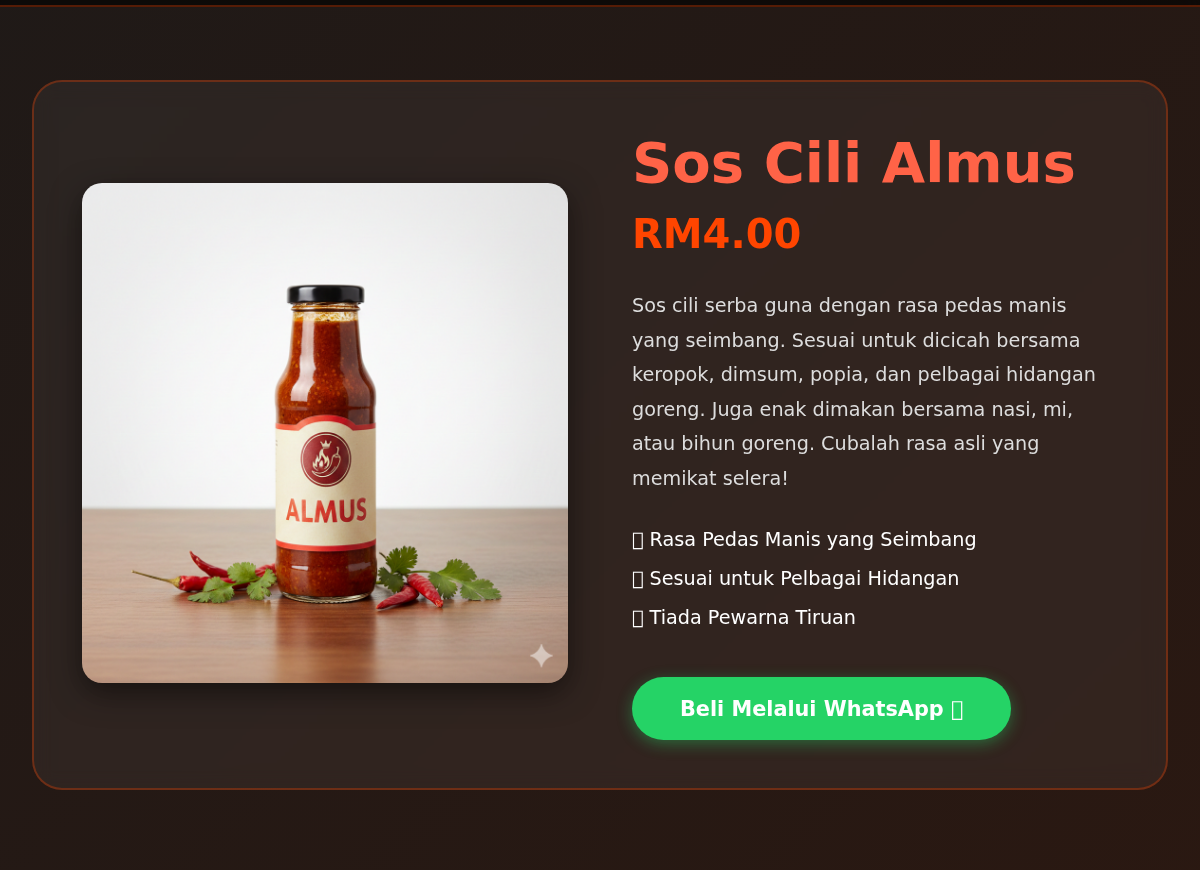
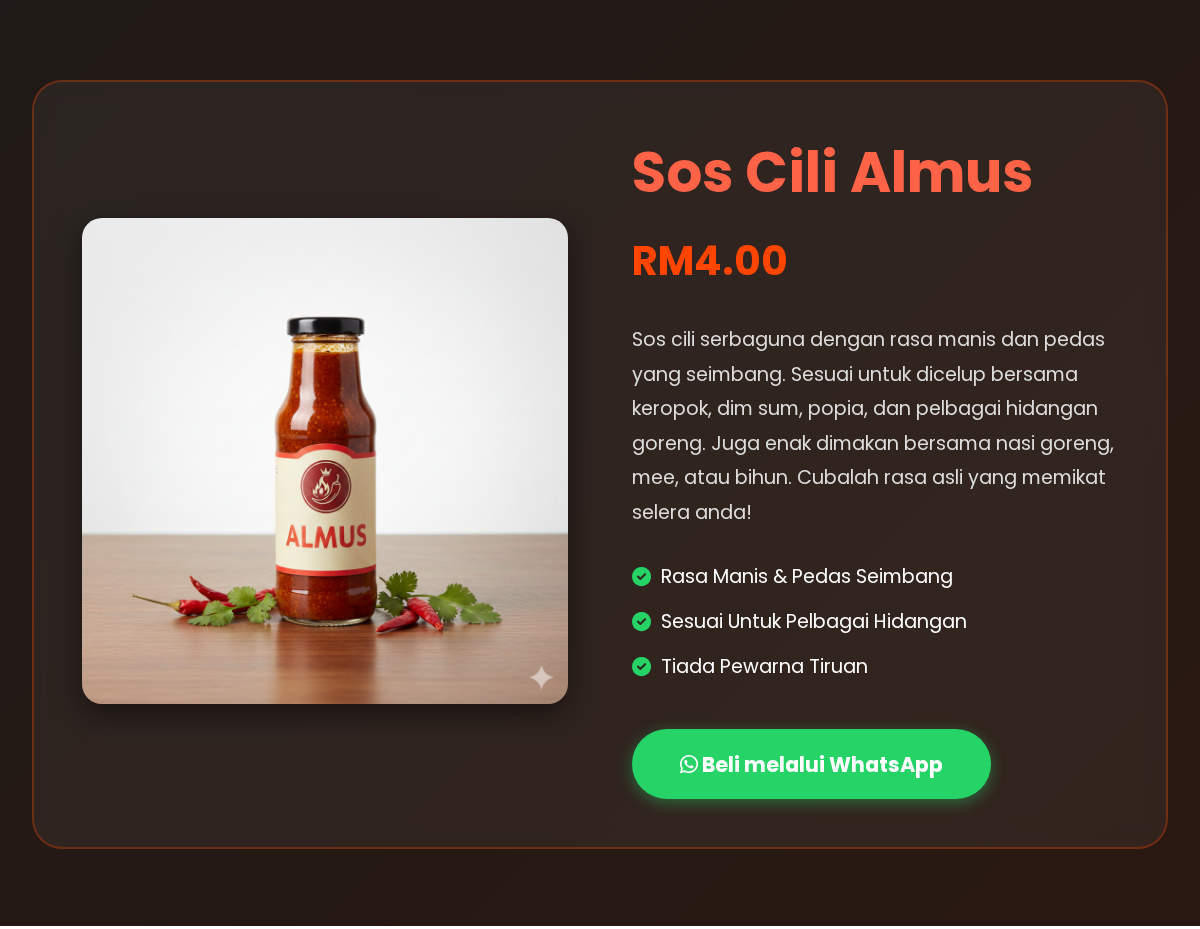
Revert language to Malay, replace emojis with FontAwesome, and update typography to Poppins

diff --git a/index.html b/index.html
@@ -3,13 +3,17 @@
 <head>
     <meta charset="UTF-8">
     <meta name="viewport" content="width=device-width, initial-scale=1.0">
-    <title>Sos Cili Almus - Pedas Manis Memikat</title>
+    <title>Sos Cili Almus - Manis & Pedas Yang Memikat</title>
+    <link rel="preconnect" href="https://fonts.googleapis.com">
+    <link rel="preconnect" href="https://fonts.gstatic.com" crossorigin>
+    <link href="https://fonts.googleapis.com/css2?family=Poppins:wght@300;400;600;700&display=swap" rel="stylesheet">
+    <link rel="stylesheet" href="https://cdnjs.cloudflare.com/ajax/libs/font-awesome/6.0.0/css/all.min.css">
     <link rel="stylesheet" href="styles.css">
 </head>
 <body>
     <header>
         <nav>
-            <div class="logo">🌶 Sos Cili Almus</div>
+            <div class="logo"><i class="fas fa-pepper-hot"></i> Sos Cili Almus</div>
             <ul class="nav-links">
                 <li><a href="#home">Utama</a></li>
                 <li><a href="#product">Produk</a></li>
@@ -22,7 +26,7 @@
     <section class="hero" id="home">
         <div class="hero-content">
             <h1>Sos Cili Almus</h1>
-            <p class="tagline">Rasa Asli Yang Memikat Selera</p>
+            <p class="tagline">Rasa Asli Yang Memikat</p>
             <a href="#product" class="cta-button">Dapatkan Sekarang</a>
         </div>
     </section>
@@ -30,24 +34,24 @@
     <section class="product-detail" id="product">
         <div class="product-container">
             <div class="product-image">
-                <img src="images/product.png" alt="Botol Sos Cili Almus" width="1024" height="1024" loading="lazy">
+                <img src="images/product.png" alt="Botol Sos Cili Almus" width="1024" height="1024" loading="lazy" decoding="async">
             </div>
             <div class="product-info">
                 <h2>Sos Cili Almus</h2>
                 <div class="price">RM4.00</div>
                 <p class="description">
-                    Sos cili serba guna dengan rasa pedas manis yang seimbang.
-                    Sesuai untuk dicicah bersama keropok, dimsum, popia, dan pelbagai hidangan goreng.
-                    Juga enak dimakan bersama nasi, mi, atau bihun goreng.
-                    Cubalah rasa asli yang memikat selera!
+                    Sos cili serbaguna dengan rasa manis dan pedas yang seimbang.
+                    Sesuai untuk dicelup bersama keropok, dim sum, popia, dan pelbagai hidangan goreng.
+                    Juga enak dimakan bersama nasi goreng, mee, atau bihun.
+                    Cubalah rasa asli yang memikat selera anda!
                 </p>
                 <ul class="features">
-                    <li>✅ Rasa Pedas Manis yang Seimbang</li>
-                    <li>✅ Sesuai untuk Pelbagai Hidangan</li>
-                    <li>✅ Tiada Pewarna Tiruan</li>
+                    <li><i class="fas fa-check-circle" style="color: #25D366;"></i> Rasa Manis & Pedas Seimbang</li>
+                    <li><i class="fas fa-check-circle" style="color: #25D366;"></i> Sesuai Untuk Pelbagai Hidangan</li>
+                    <li><i class="fas fa-check-circle" style="color: #25D366;"></i> Tiada Pewarna Tiruan</li>
                 </ul>
-                <a href="https://wa.me/60137332861?text=Nak%20order%20Sos%20Cili%20Almus" class="buy-button whatsapp-button" target="_blank" rel="noopener noreferrer">
-                    Beli Melalui WhatsApp 📱
+                <a href="https://wa.me/60137332861?text=Hi,%20Saya%20nak%20order%20Sos%20Cili%20Almus" class="buy-button whatsapp-button" target="_blank" rel="noopener noreferrer">
+                    <i class="fab fa-whatsapp"></i> Beli melalui WhatsApp
                 </a>
             </div>
         </div>
@@ -56,13 +60,13 @@
     <section class="about" id="about">
         <div class="about-content">
             <h2>Tentang Kami</h2>
-            <p>Sos Cili Almus dihasilkan dengan penuh kasih sayang menggunakan bahan-bahan segar dan berkualiti tinggi.</p>
-            <p>Kami komited untuk membawakan rasa pedas manis yang asli ke meja makan anda, sesuai untuk seisi keluarga.</p>
+            <p>Sos Cili Almus dihasilkan dengan kasih sayang menggunakan bahan-bahan segar dan berkualiti tinggi.</p>
+            <p>Kami komited untuk membawakan rasa manis dan pedas asli ke meja makan anda, sesuai untuk seisi keluarga.</p>
         </div>
     </section>
 
     <footer id="contact">
-        <p>📧 Hubungi: sales@almus.com | 📱 +60 13-733 2861</p>
+        <p><i class="fas fa-envelope"></i> Hubungi: sales@almus.com | <i class="fas fa-phone"></i> +60 13-733 2861</p>
         <p>&copy; 2024 Sos Cili Almus. Hak Cipta Terpelihara.</p>
     </footer>
 </body>

diff --git a/styles.css b/styles.css
@@ -21,7 +21,7 @@ html {
 }
 
 body {
-    font-family: 'Segoe UI', Tahoma, Geneva, Verdana, sans-serif;
+    font-family: 'Poppins', 'Segoe UI', Tahoma, Geneva, Verdana, sans-serif;
     background: linear-gradient(135deg, #1a1a1a 0%, #2d1810 100%);
     color: #fff;
     overflow-x: hidden;
@@ -173,6 +173,8 @@ h1 {
 .product-image img {
     max-width: 100%;
     max-height: 500px;
+    width: auto;
+    height: auto;
     border-radius: 20px;
     box-shadow: 0 10px 30px rgba(0,0,0,0.5);
     transition: transform 0.3s ease;
